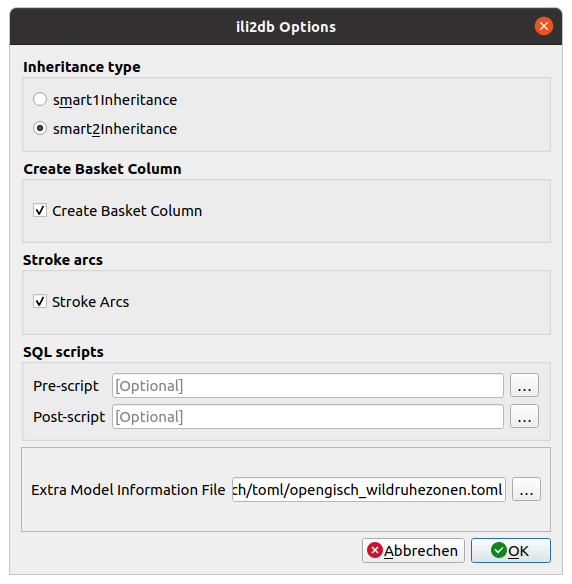
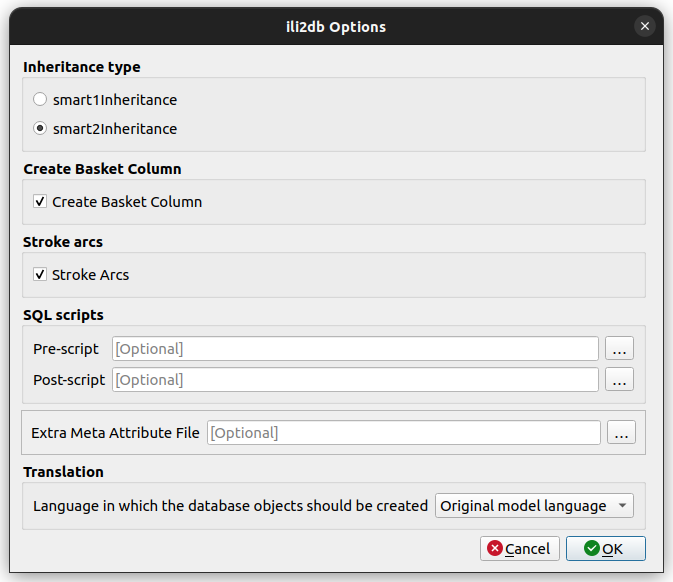
translation

Changed region(s): [[0.0, 0.0, 1.0, 1.0], [0.0594, 0.1546, 0.3269, 0.2474]]

diff --git a/docs/docs/user_guide/import_workflow.md b/docs/docs/user_guide/import_workflow.md
@@ -79,6 +79,7 @@ Since Model Baker uses ili2db, you can set advanced options that determine how y
 
 ![wizard ili2db options](../assets/workflow_wizard_ili2db_options.png)
 
+
 #### Inheritance type
 
 Ili2db allows you to use three types of inheritance mapping:
@@ -109,6 +110,10 @@ You can define `sql` scripts that runs before and after the (schema) import.
 ### Extra Meta Attribute File
 
 A `toml` or `ini` file can contain values for [meta attributes](../../background_info/meta_attributes/) (like `qgis.modelbaker.dispExpression`) instead of having them directly in the `ili` file.
+
+### Translation
+
+When the imported model is a translation model (`TRANSLATION OF`) you can choose choose whether the database structure should be created using the translation language or the language of the original model.
 
 ## 4. Run ili2db Sessions
 
